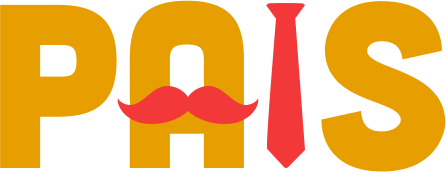
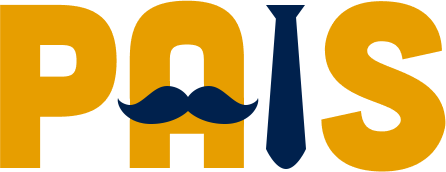
ajustes no card

Changed region(s): [[0.2623, 0.0, 0.6996, 0.9884]]

diff --git a/main.css b/main.css
@@ -54,7 +54,7 @@ button, input {
   letter-spacing: 2px;
 }
 .first-page .container-text-first .text-first-page strong {
-  color: #F23838;
+  color: #00214D;
 }
 .first-page .container-img-first {
   position: relative;
@@ -198,7 +198,7 @@ button, input {
   transition: 0.3s;
 }
 .second-page .container-bottles .info-bottles .btn-bottles:hover {
-  background-color: #F23838;
+  background-color: #00214D;
   transition: 0.3s;
 }
 
@@ -228,7 +228,7 @@ button, input {
     align-items: center;
   }
   .second-page .container-bottles .container-info-bottles .info-bottles .title-bottles {
-    font-size: 1rem;
+    font-size: 1.5rem;
   }
   .second-page .container-bottles .container-info-bottles .info-bottles .text-bottles {
     text-align: center;
@@ -288,6 +288,12 @@ button, input {
   gap: 30px;
   height: 50%;
   width: 60%;
+  border: solid darkorange;
+}
+.tirth-page .container-tirth-page-left .container-card-bottle .card-bottle, .tirth-page .container-tirth-page-right .container-card-bottle .card-bottle {
+  display: flex;
+  flex-direction: column;
+  justify-content: space-between;
 }
 .tirth-page .container-tirth-page-left .container-card-bottle .card-bottle-1, .tirth-page .container-tirth-page-right .container-card-bottle .card-bottle-1 {
   justify-self: end;
@@ -320,7 +326,9 @@ button, input {
     flex-direction: column;
     justify-content: end;
     width: 95%;
-    gap: 30;
+    gap: 10px;
+    border: solid hsl(22, 100%, 50%);
+    padding: 10px;
   }
   .tirth-page .container-tirth-page-left, .tirth-page .container-tirth-page-right {
     flex-direction: column;
@@ -332,15 +340,24 @@ button, input {
   .tirth-page .container-tirth-page-left .container-card-bottle, .tirth-page .container-tirth-page-right .container-card-bottle {
     width: 100%;
     order: 1;
+    gap: 10px;
   }
   .tirth-page .container-tirth-page-left .container-card-bottle .card-bottle-1, .tirth-page .container-tirth-page-right .container-card-bottle .card-bottle-1 {
+    border: solid fuchsia;
     justify-self: center;
+    padding-bottom: 20px;
+    border-radius: 10px;
+  }
+  .tirth-page .container-tirth-page-left .container-card-bottle .card-bottle-1 .container-card .img-card, .tirth-page .container-tirth-page-right .container-card-bottle .card-bottle-1 .container-card .img-card {
+    height: 100%;
   }
   .tirth-page .container-tirth-page-left .container-card-bottle .card-bottle-2, .tirth-page .container-tirth-page-right .container-card-bottle .card-bottle-2 {
-    justify-self: start;
-    border-radius: 30px;
-    background-color: #F2F2F2;
-    transition: 0.3s;
+    border: solid rgb(0, 89, 255);
+    padding-bottom: 20px;
+    border-radius: 10px;
+  }
+  .tirth-page .container-tirth-page-left .container-card-bottle .card-bottle-2 .container-card .img-card, .tirth-page .container-tirth-page-right .container-card-bottle .card-bottle-2 .container-card .img-card {
+    height: 100%;
   }
   .tirth-page .container-tirth-page-left .container-gif-bottle, .tirth-page .container-tirth-page-right .container-gif-bottle {
     width: 100%;
@@ -408,7 +425,7 @@ button, input {
   cursor: pointer;
 }
 .fourth-page .wrapper-content .container-up .info-fourth-page-1 .btn-fourth-page:hover {
-  background-color: #F23838;
+  background-color: #00214D;
   transition: 0.3s;
 }
 .fourth-page .wrapper-content .container-up .img-fourth-page-1 {
@@ -488,7 +505,7 @@ button, input {
   cursor: pointer;
 }
 .fourth-page .wrapper-content .container-down .info-fourth-page-2 .btn-fourth-page:hover {
-  background-color: #F23838;
+  background-color: #00214D;
   transition: 0.3s;
 }
 
@@ -601,7 +618,7 @@ button, input {
   background-color: #448FF2;
 }
 .card-bottle .info-card .btn-info-card:hover {
-  background-color: #F23838;
+  background-color: #00214D;
   transition: 0.3s;
 }
 
@@ -683,7 +700,7 @@ button, input {
   cursor: pointer;
 }
 .fifth-page .container-wrapper .left-container .info-fifth .btn-fifth:hover, .fifth-page .container-wrapper .right-container .info-fifth .btn-fifth:hover {
-  background-color: #F23838;
+  background-color: #00214D;
   transition: 0.3s;
 }
 
@@ -751,7 +768,7 @@ button, input {
     cursor: pointer;
   }
   .fifth-page .container-wrapper .left-container .info-fifth .btn-fifth:hover, .fifth-page .container-wrapper .right-container .info-fifth .btn-fifth:hover {
-    background-color: #F23838;
+    background-color: #00214D;
     transition: 0.3s;
   }
 }
@@ -854,7 +871,7 @@ footer .data-corp-footer .container-contacts-footer {
   gap: 1rem;
 }
 footer .data-corp-footer .container-contacts-footer .title-contact-footer {
-  color: #F23838;
+  color: #00214D;
   font-size: 2rem;
   font-family: "hatch-sans", sans-serif;
 }
@@ -867,7 +884,7 @@ footer .data-corp-footer .container-contacts-footer .list-contact-footer {
   letter-spacing: 2px;
 }
 footer .data-corp-footer .business-hours-footer .title-hours-footer {
-  color: #F23838;
+  color: #00214D;
   font-size: 2rem;
   font-family: "hatch-sans", sans-serif;
 }
@@ -880,7 +897,7 @@ footer .data-corp-footer .business-hours-footer .hours-footer {
   letter-spacing: 2px;
 }
 footer .data-corp-footer .container-rules-footer .title-rules-footer {
-  color: #F23838;
+  color: #00214D;
   font-size: 2rem;
   font-family: "hatch-sans", sans-serif;
 }

diff --git a/assets/style/_tirth-page.scss b/assets/style/_tirth-page.scss
@@ -3,7 +3,6 @@
     justify-content: center;
     align-items: center;
     width: 100vw;
-   
     gap: 30px;
     padding: 30px;
     background-color: $seventh-color;
@@ -24,7 +23,14 @@
             gap: 30px;
             height: 50%;
             width: 60%;
+            border: solid darkorange;
 
+            .card-bottle{
+                display: flex;
+                flex-direction: column;
+                justify-content: space-between;
+
+            }
 
             .card-bottle-1{
                 justify-self: end;
@@ -64,12 +70,14 @@
         flex-direction: column;
         justify-content: end;
         width: 95%;
-        gap: 30;
+        gap: 10px;
+        border: solid hsl(22, 100%, 50%);
+        padding: 10px;
 
         .container-tirth-page-left, .container-tirth-page-right{
             flex-direction: column;
             width: 100%;
-
+            
             .container-gif-bottle{
                 order: 2; 
             }
@@ -77,16 +85,30 @@
             .container-card-bottle{
                 width: 100%;
                 order: 1;
+                gap: 10px;
                 
                 .card-bottle-1{
+                    border: solid fuchsia;
                     justify-self: center;
+                    padding-bottom: 20px ;
+                    border-radius: 10px;
+                    .container-card{
+                        .img-card{
+                            height: 100%;
+                        }
+                    }
                 }
-
+                
                 .card-bottle-2{
-                    justify-self: start;
-                    border-radius: 30px;
-                    background-color: $sixth-color;
-                    transition: .3s;
+                    border: solid rgb(0, 89, 255);
+                    padding-bottom: 20px ;
+                    border-radius: 10px;
+                    .container-card{
+                        .img-card{
+                            height: 100%;
+                        }
+                    }
+
                 }   
             }
 

diff --git a/index.html b/index.html
@@ -94,6 +94,7 @@
                             <button class="btn-info-card" id="btnForInfoCard">Conferir</button>
                         </div>
                     </div>
+                    
                     <div class="card-bottle card-bottle-2">
                         
                         <div class="container-card">
@@ -105,7 +106,6 @@
                             <button class="btn-info-card" id="btnForInfoCard">Conferir</button>
                         </div>
                     </div>
-
                 </div>
 
                 <div class="container-gif-bottle">

diff --git a/assets/style/_second-page.scss b/assets/style/_second-page.scss
@@ -110,7 +110,7 @@
                     align-items: center;
 
                     .title-bottles{
-                        font-size: 1rem;
+                        font-size: 1.5rem;
                     }
                     
                     .text-bottles {

diff --git a/assets/style/_variables.scss b/assets/style/_variables.scss
@@ -7,7 +7,7 @@ $primary-color:#448FF2;
 $second-color: #F2B705;
 $tirth-color: #e79e00;
 $fourth-color: #33A650;
-$fifth-color: #F23838;
+$fifth-color: #00214D;
 $sixth-color:#F2F2F2;
 $seventh-color:#e9e9e9;
 $dark-color: #1c1b1f;
